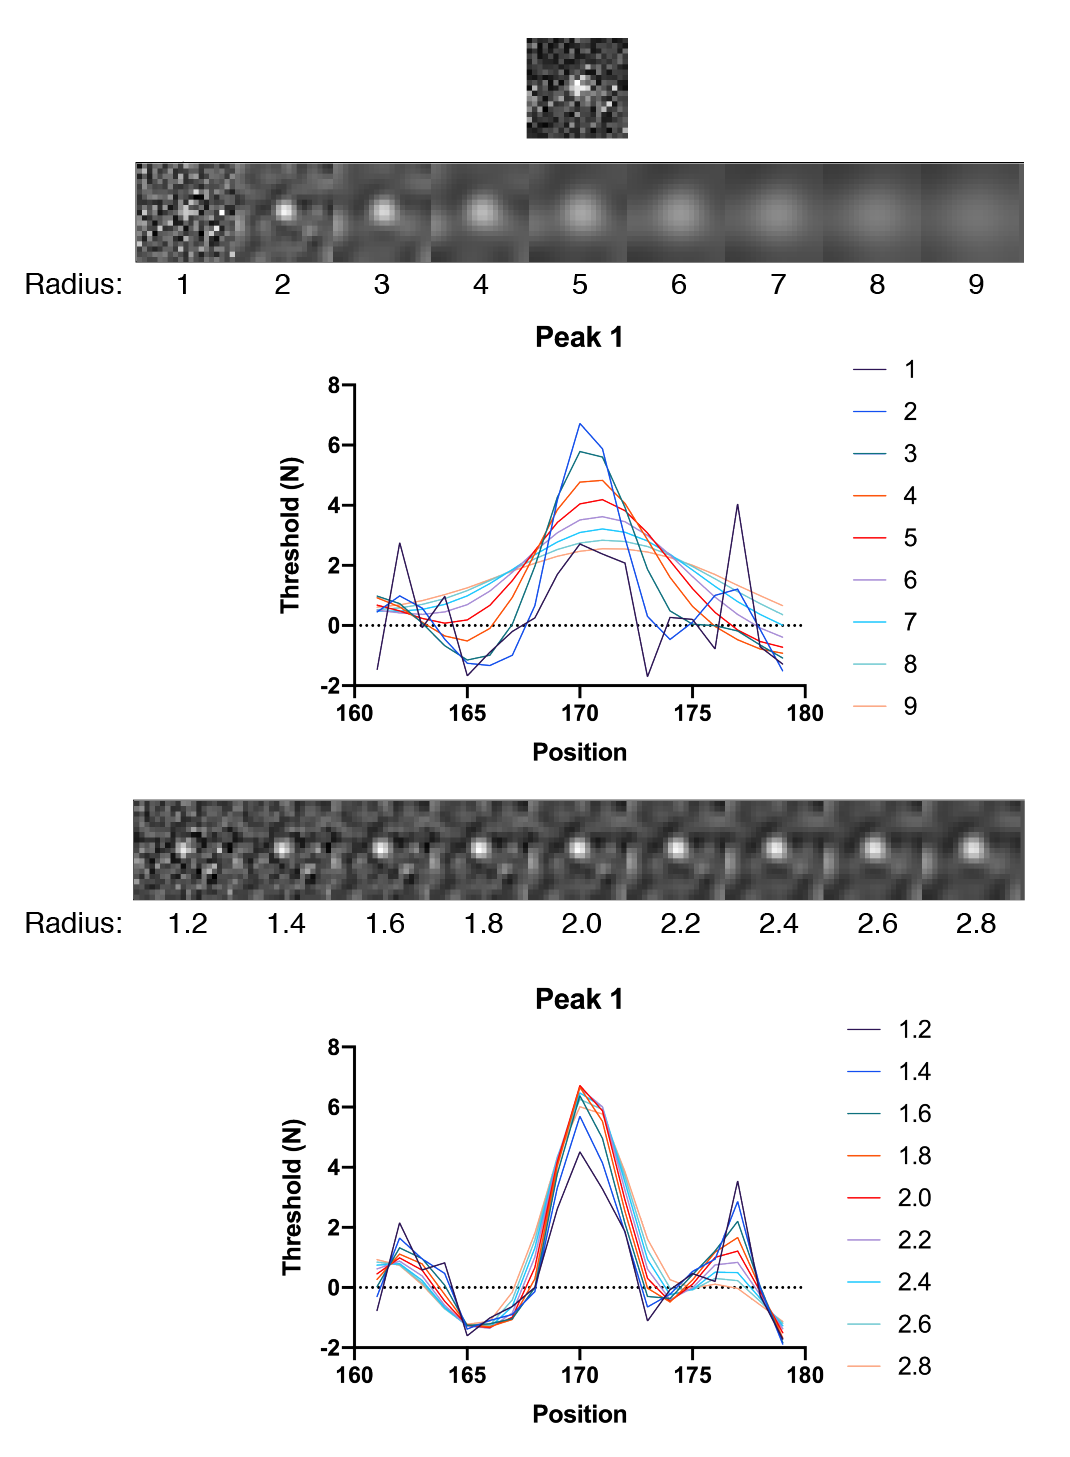
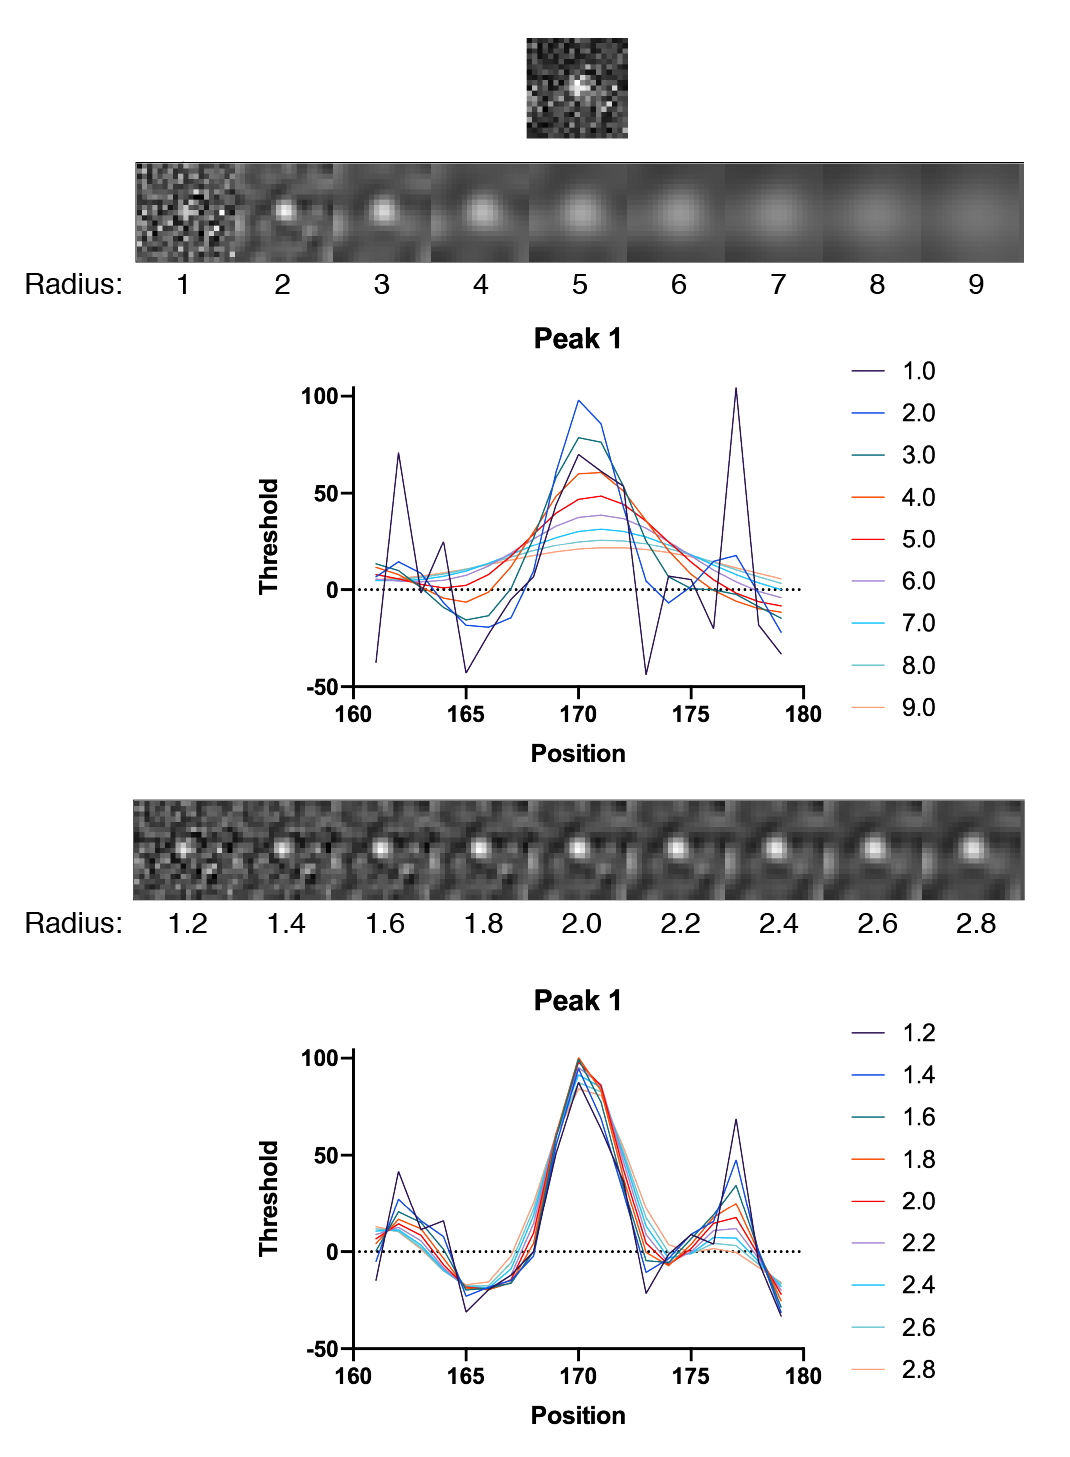
Convert to raw dog thresholds on DogFilterProperties page

diff --git a/docs/image/DoGFilterProperties.md b/docs/image/DoGFilterProperties.md
@@ -14,7 +14,7 @@ This filter is conveniently available as an image op in ImageJ2. Several example
 
 To access the peak enhancement as a function of DoG radius, three peaks with different intensities were systematically evaluated for a range of radii. The resulting images as displayed together with their x position profiles. The profiles are displayed in terms of detection threshold (N) where N is the number of standard deviations above the mean (mean + N * stdDev). For convenience the mean is set to zero in the profiles and multiples of the standard deviation are displayed on the y axis. Here mean and standard deviation were calculated for the entire example image above for each radius. Clearly a radius of 2.0 is the winner in terms of overall enhancement.
 
-<img align='center' src='{{site.baseurl}}/docs/image/img/DogFilterPeakProfileComparison.png' width='750' />
+<img align='center' src='{{site.baseurl}}/docs/image/img/DogFilterPeakProfileComparison.png' width='400' />
 
 <img align='center' src='{{site.baseurl}}/docs/image/img/DogFilterPeak1.png' width='750' />
 
@@ -22,13 +22,11 @@ To access the peak enhancement as a function of DoG radius, three peaks with dif
 
 <img align='center' src='{{site.baseurl}}/docs/image/img/DogFilterPeak3.png' width='750' />
 
-<img align='center' src='{{site.baseurl}}/docs/image/img/DogFilterRawPeakComparison.png' width='750' />
-
-In all cases the DoG Filter with radius 2.0 increases the detection threshold. More importantly, the background is suppressed. This is particularly clear for peak 1 where two pixel with high values are on either side of the peak. The detection threshold for these individual background pixels is dramatically reduced after DoG filtering.
+In all cases the DoG Filter improves detection. More importantly, the background is suppressed. This is particularly clear for peak 1 where two pixels with high values are on either side of the peak. The detection threshold for these individual background pixels is dramatically reduced after DoG filtering.
 
 #### Peak detection
 
-Finally comparison of ground truth for a video vs. located peaks for different threshold values for one dog radius. First raw peaks count plot vs. ground truth.
+Now that we have established that a DoG radius of 2.0 is the best for our example image, we can test different threshold values and determine which is best for peak detection. We will do this using a ground truth peak count for the video from which our example image was taken. Then we will score each threshold based on the average number of false positives and negatives for each frame.
 
 <img align='center' src='{{site.baseurl}}/docs/image/img/xxx.png' width='450' />
 

diff --git a/docs/image/DogFilterProperties.md b/docs/image/DogFilterProperties.md
@@ -14,7 +14,7 @@ This filter is conveniently available as an image op in ImageJ2. Several example
 
 To access the peak enhancement as a function of DoG radius, three peaks with different intensities were systematically evaluated for a range of radii. The resulting images as displayed together with their x position profiles. The profiles are displayed in terms of detection threshold (N) where N is the number of standard deviations above the mean (mean + N * stdDev). For convenience the mean is set to zero in the profiles and multiples of the standard deviation are displayed on the y axis. Here mean and standard deviation were calculated for the entire example image above for each radius. Clearly a radius of 2.0 is the winner in terms of overall enhancement.
 
-<img align='center' src='{{site.baseurl}}/docs/image/img/DogFilterPeakProfileComparison.png' width='750' />
+<img align='center' src='{{site.baseurl}}/docs/image/img/DogFilterPeakProfileComparison.png' width='400' />
 
 <img align='center' src='{{site.baseurl}}/docs/image/img/DogFilterPeak1.png' width='750' />
 
@@ -22,13 +22,11 @@ To access the peak enhancement as a function of DoG radius, three peaks with dif
 
 <img align='center' src='{{site.baseurl}}/docs/image/img/DogFilterPeak3.png' width='750' />
 
-<img align='center' src='{{site.baseurl}}/docs/image/img/DogFilterRawPeakComparison.png' width='750' />
-
-In all cases the DoG Filter with radius 2.0 increases the detection threshold. More importantly, the background is suppressed. This is particularly clear for peak 1 where two pixel with high values are on either side of the peak. The detection threshold for these individual background pixels is dramatically reduced after DoG filtering.
+In all cases the DoG Filter improves detection. More importantly, the background is suppressed. This is particularly clear for peak 1 where two pixels with high values are on either side of the peak. The detection threshold for these individual background pixels is dramatically reduced after DoG filtering.
 
 #### Peak detection
 
-Finally comparison of ground truth for a video vs. located peaks for different threshold values for one dog radius. First raw peaks count plot vs. ground truth.
+Now that we have established that a DoG radius of 2.0 is the best for our example image, we can test different threshold values and determine which is best for peak detection. We will do this using a ground truth peak count for the video from which our example image was taken. Then we will score each threshold based on the average number of false positives and negatives for each frame.
 
 <img align='center' src='{{site.baseurl}}/docs/image/img/xxx.png' width='450' />
 
